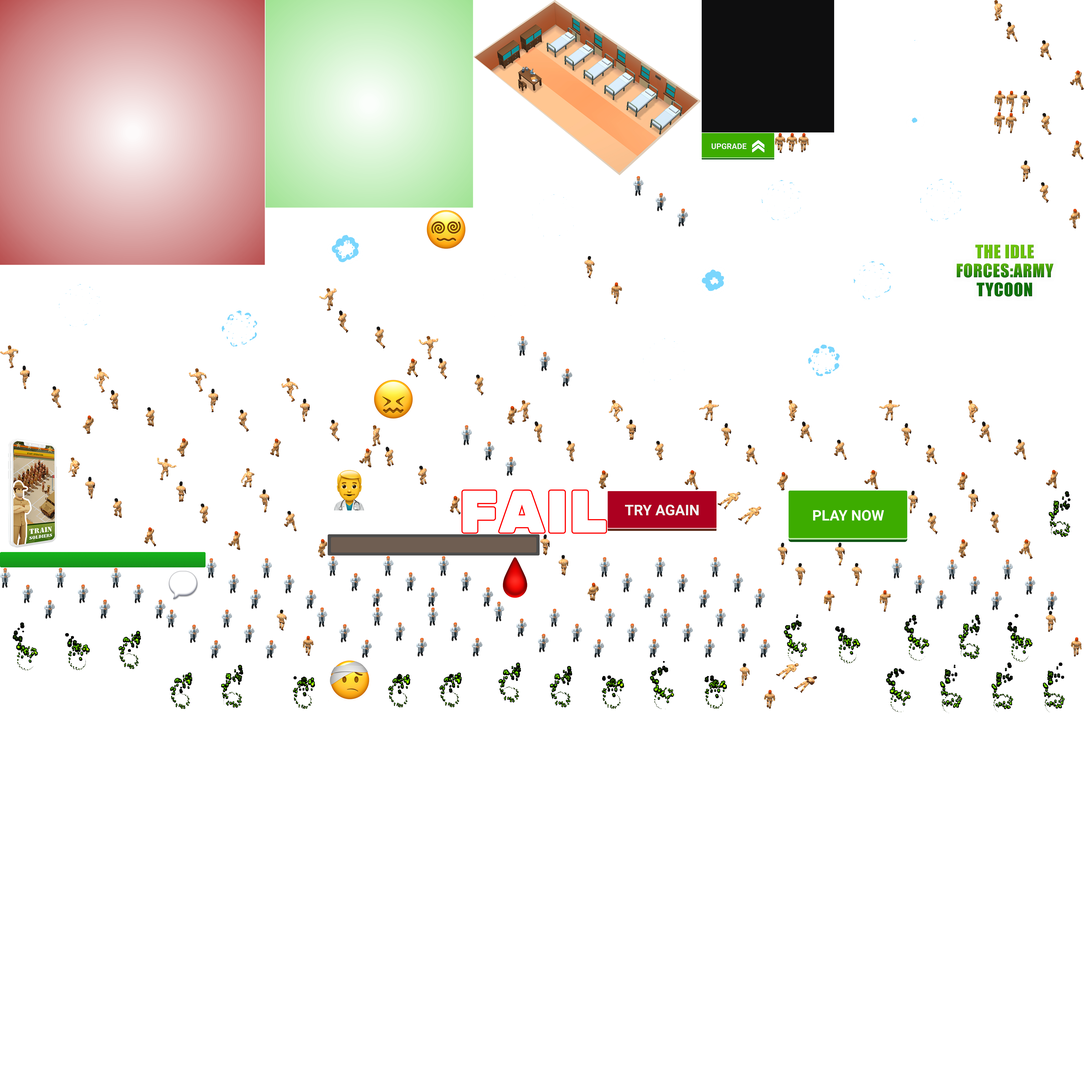
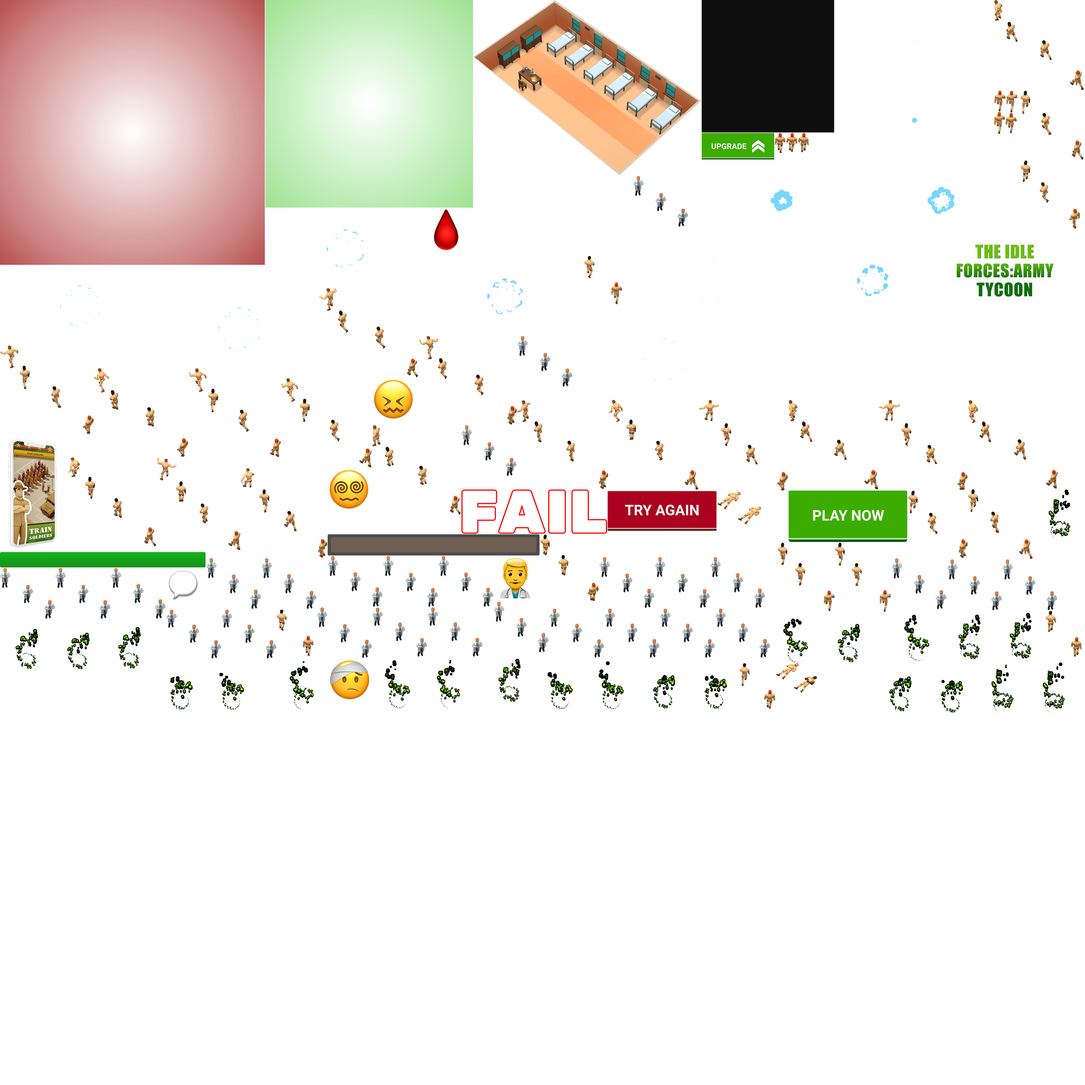
Add files via upload

diff --git a/index.html b/index.html
@@ -19,7 +19,7 @@
 var p; // shortcut to reference prototypes
 var lib={};var ss={};var img={};
 lib.ssMetadata = [
-		{name:"index_atlas_P_", frames: [[0,0,1000,1000],[1742,1848,550,167],[1002,0,784,784],[2294,2006,640,95],[1864,2099,160,160],[2294,1854,411,150],[2649,502,274,100],[627,2144,128,128],[2977,1852,449,194],[3151,0,600,300],[3151,302,600,300],[2390,906,600,300],[1002,786,600,300],[2808,1208,600,300],[602,1088,600,300],[2992,906,600,300],[2649,604,600,300],[3251,604,600,300],[0,1002,600,300],[1788,664,600,300],[2206,1208,600,300],[1604,966,600,300],[3410,1208,600,300],[1405,1427,160,160],[1604,786,160,160],[1237,1767,160,160],[1405,2293,207,186],[1614,2293,207,186],[2282,2297,207,186],[2491,2297,207,186],[2073,2297,207,186],[2700,2297,207,186],[836,2301,207,185],[627,2301,207,185],[1196,2293,207,191],[2472,2103,207,192],[2390,664,207,192],[1237,2099,207,192],[1953,1268,207,192],[1655,2099,207,192],[778,2107,207,192],[2263,2103,207,192],[1446,2099,207,192],[2681,2103,207,192],[1742,1605,207,192],[209,2144,207,192],[418,2144,207,192],[987,2107,207,192],[3366,2108,207,192],[0,2144,207,192],[3575,2112,207,192],[3784,2112,207,192],[1864,2271,207,192],[1237,2017,800,80],[2909,2309,192,192],[0,2338,192,192],[3754,2306,192,192],[3103,2312,192,192],[194,2338,192,192],[2405,2485,192,192],[2599,2485,192,192],[2211,2485,192,192],[1045,2486,192,192],[1405,2481,192,192],[1599,2481,192,192],[3297,2496,192,192],[582,2488,192,192],[388,2338,192,192],[1823,2465,192,192],[2017,2485,192,192],[776,2488,192,192],[3366,2302,192,192],[3560,2306,192,192],[3901,1847,192,192],[3685,2500,192,192],[3879,2500,192,192],[3491,2500,192,192],[1239,2486,160,160],[3594,906,400,231],[0,2084,776,58],[2929,2503,157,118],[2707,1854,169,130],[1204,1088,374,337],[1580,1268,371,335],[356,1390,354,334],[3655,1510,339,335],[2977,1510,339,338],[3753,0,340,340],[1405,1605,335,338],[1953,1510,343,336],[0,1304,354,334],[712,1390,348,335],[1062,1427,341,338],[2298,1510,339,339],[258,1726,332,338],[910,1767,325,338],[2639,1510,336,342],[3318,1510,335,340],[592,1727,316,350],[3655,1847,244,263],[3853,342,237,261],[3428,1852,225,254],[3853,605,225,258],[2039,2017,222,252],[2936,2048,215,259],[3153,2048,211,262],[2206,966,143,183],[1045,2301,140,176],[3948,2306,136,173],[2793,2503,134,173],[3753,342,44,79],[3799,342,42,82],[3753,423,41,83],[2925,502,41,76],[3013,502,41,73],[2968,502,43,71],[3796,426,43,77],[2649,0,500,500],[0,1640,256,442],[1788,0,859,662]]},
+		{name:"index_atlas_P_", frames: [[0,0,1000,1000],[1742,1848,550,167],[1002,0,784,784],[2294,2006,640,95],[1604,786,160,160],[2294,1854,411,150],[2649,502,274,100],[627,2144,128,128],[2977,1852,449,194],[3151,0,600,300],[3151,302,600,300],[2649,604,600,300],[3251,604,600,300],[2992,906,600,300],[1604,966,600,300],[1002,786,600,300],[0,1002,600,300],[602,1088,600,300],[2206,1208,600,300],[1788,664,600,300],[2390,906,600,300],[2808,1208,600,300],[3410,1208,600,300],[1405,1427,160,160],[1237,1767,160,160],[1864,2099,160,160],[1614,2293,207,186],[2700,2297,207,186],[2282,2297,207,186],[1405,2293,207,186],[2491,2297,207,186],[2073,2297,207,186],[836,2301,207,185],[627,2301,207,185],[1196,2293,207,191],[1953,1268,207,192],[1742,1605,207,192],[2390,664,207,192],[987,2107,207,192],[418,2144,207,192],[2681,2103,207,192],[1237,2099,207,192],[1864,2271,207,192],[778,2107,207,192],[1655,2099,207,192],[2263,2103,207,192],[3366,2108,207,192],[3784,2112,207,192],[3575,2112,207,192],[1446,2099,207,192],[2472,2103,207,192],[0,2144,207,192],[209,2144,207,192],[1237,2017,800,80],[1599,2481,192,192],[1405,2481,192,192],[2211,2485,192,192],[2017,2485,192,192],[776,2488,192,192],[1045,2486,192,192],[582,2488,192,192],[2599,2485,192,192],[3491,2500,192,192],[2405,2485,192,192],[3297,2496,192,192],[2909,2309,192,192],[194,2338,192,192],[3103,2312,192,192],[0,2338,192,192],[388,2338,192,192],[1823,2465,192,192],[3366,2302,192,192],[3560,2306,192,192],[3754,2306,192,192],[3901,1847,192,192],[3879,2500,192,192],[3685,2500,192,192],[1239,2486,160,160],[3594,906,400,231],[0,2084,776,58],[2929,2503,157,118],[2707,1854,169,130],[1204,1088,374,337],[1580,1268,371,335],[356,1390,354,334],[3655,1510,339,335],[2977,1510,339,338],[3753,0,340,340],[1405,1605,335,338],[1953,1510,343,336],[0,1304,354,334],[712,1390,348,335],[1062,1427,341,338],[2298,1510,339,339],[258,1726,332,338],[910,1767,325,338],[2639,1510,336,342],[3318,1510,335,340],[592,1727,316,350],[3655,1847,244,263],[3853,342,237,261],[3428,1852,225,254],[3853,605,225,258],[2039,2017,222,252],[2936,2048,215,259],[3153,2048,211,262],[2206,966,143,183],[1045,2301,140,176],[3948,2306,136,173],[2793,2503,134,173],[3753,342,44,79],[3799,342,42,82],[3753,423,41,83],[2925,502,41,76],[3013,502,41,73],[2968,502,43,71],[3796,426,43,77],[2649,0,500,500],[0,1640,256,442],[1788,0,859,662]]},
 		{name:"index_atlas_NP_", frames: [[0,0,2000,2000],[1082,2002,1024,1024],[0,2002,1080,1080]]}
 ];
 // symbols:
@@ -1185,6 +1185,7 @@ p.nominalBounds = new cjs.Rectangle(-230.3,-116.1,461.1,232.3);
 	}
 	this.frame_74 = function() {
 		window.dispatchEvent(new Event('showBase'));
+		window.dispatchEvent(new Event('makeClickable'));
 	}
 	this.frame_89 = function() {
 		this.stop();
@@ -1281,50 +1282,67 @@ p.nominalBounds = new cjs.Rectangle(-230.3,-116.1,461.1,232.3);
 		this.stop();
 		window.dispatchEvent(new Event('showUi'));
 	}
+	this.frame_94 = function() {
+		window.dispatchEvent(new Event('upgrade'));
+	}
+	this.frame_104 = function() {
+		this.stop();
+		window.dispatchEvent(new Event('makeClickable'));
+	}
+	this.frame_112 = function() {
+		window.dispatchEvent(new Event('upgrade'));
+	}
+	this.frame_123 = function() {
+		this.stop();
+		window.dispatchEvent(new Event('makeClickable'));
+	}
 	this.frame_135 = function() {
+		window.dispatchEvent(new Event('upgrade'));
+	}
+	this.frame_170 = function() {
 		window.dispatchEvent(new Event('onHeal'));
 	}
-	this.frame_149 = function() {
+	this.frame_184 = function() {
 		this.stop();
 	}
 	// actions tween:
-	this.timeline.addTween(cjs.Tween.get(this).wait(70).call(this.frame_70).wait(65).call(this.frame_135).wait(14).call(this.frame_149).wait(1));
+	this.timeline.addTween(cjs.Tween.get(this).wait(70).call(this.frame_70).wait(24).call(this.frame_94).wait(10).call(this.frame_104).wait(8).call(this.frame_112).wait(11).call(this.frame_123).wait(12).call(this.frame_135).wait(35).call(this.frame_170).wait(14).call(this.frame_184).wait(1));
 	// effect
 	this.instance = new lib.appear_FX("synched",0);
 	this.instance.parent = this;
 	this.instance.setTransform(255.4,98.2,1.7661,1.7661,0,0,0,0.1,0.1);
 	this.instance._off = true;
-	this.timeline.addTween(cjs.Tween.get(this.instance).wait(98).to({_off:false},0).to({_off:true},14).wait(38));
+	this.timeline.addTween(cjs.Tween.get(this.instance).wait(133).to({_off:false},0).to({_off:true},14).wait(38));
 	// effect
 	this.instance_1 = new lib.appear_FX("synched",0);
 	this.instance_1.parent = this;
 	this.instance_1.setTransform(76.85,-26.9,1.7705,1.7705,0,0,0,0.1,0);
 	this.instance_1._off = true;
-	this.timeline.addTween(cjs.Tween.get(this.instance_1).wait(96).to({_off:false},0).to({_off:true},14).wait(40));
+	this.timeline.addTween(cjs.Tween.get(this.instance_1).wait(131).to({_off:false},0).to({_off:true},14).wait(40));
 	// effect
 	this.instance_2 = new lib.appear_FX("synched",0);
 	this.instance_2.parent = this;
 	this.instance_2.setTransform(-61.8,-137.9,1.6451,1.6451,0,0,0,0,-0.1);
 	this.instance_2._off = true;
-	this.timeline.addTween(cjs.Tween.get(this.instance_2).wait(94).to({_off:false},0).to({_off:true},14).wait(42));
+	this.timeline.addTween(cjs.Tween.get(this.instance_2).wait(129).to({_off:false},0).to({_off:true},14).wait(42));
 	// effect
 	this.instance_3 = new lib.appear_FX("synched",0);
 	this.instance_3.parent = this;
 	this.instance_3.setTransform(-210,-177.2);
 	this.instance_3._off = true;
-	this.timeline.addTween(cjs.Tween.get(this.instance_3).wait(91).to({_off:false},0).to({_off:true},14).wait(45));
+	this.timeline.addTween(cjs.Tween.get(this.instance_3).wait(109).to({_off:false},0).to({_off:true},14).wait(62));
 	// effect
 	this.instance_4 = new lib.appear_FX("synched",0);
 	this.instance_4.parent = this;
 	this.instance_4.setTransform(-297,-118.3);
 	this.instance_4._off = true;
-	this.timeline.addTween(cjs.Tween.get(this.instance_4).wait(90).to({_off:false},0).to({_off:true},14).wait(46));
+	this.timeline.addTween(cjs.Tween.get(this.instance_4).wait(108).to({_off:false},0).to({_off:true},14).wait(63));
 	// effect
 	this.instance_5 = new lib.appear_FX("synched",0);
 	this.instance_5.parent = this;
 	this.instance_5.setTransform(-229.8,-18.8);
 	this.instance_5._off = true;
-	this.timeline.addTween(cjs.Tween.get(this.instance_5).wait(88).to({_off:false},0).to({_off:true},14).wait(48));
+	this.timeline.addTween(cjs.Tween.get(this.instance_5).wait(90).to({_off:false},0).to({_off:true},14).wait(81));
 	// cross
 	this.instance_6 = new lib.cross();
 	this.instance_6.parent = this;
@@ -1332,7 +1350,7 @@ p.nominalBounds = new cjs.Rectangle(-230.3,-116.1,461.1,232.3);
 	this.instance_6.alpha = 0.0703;
 	this.instance_6.compositeOperation = "lighter";
 	this.instance_6._off = true;
-	this.timeline.addTween(cjs.Tween.get(this.instance_6).wait(128).to({_off:false},0).to({alpha:1},11,cjs.Ease.quadOut).wait(11));
+	this.timeline.addTween(cjs.Tween.get(this.instance_6).wait(163).to({_off:false},0).to({alpha:1},11,cjs.Ease.quadOut).wait(11));
 	// cross
 	this.instance_7 = new lib.cross();
 	this.instance_7.parent = this;
@@ -1340,7 +1358,7 @@ p.nominalBounds = new cjs.Rectangle(-230.3,-116.1,461.1,232.3);
 	this.instance_7.alpha = 0.0703;
 	this.instance_7.compositeOperation = "lighter";
 	this.instance_7._off = true;
-	this.timeline.addTween(cjs.Tween.get(this.instance_7).wait(130).to({_off:false},0).to({alpha:1},11,cjs.Ease.quadOut).wait(9));
+	this.timeline.addTween(cjs.Tween.get(this.instance_7).wait(165).to({_off:false},0).to({alpha:1},11,cjs.Ease.quadOut).wait(9));
 	// cross
 	this.instance_8 = new lib.cross();
 	this.instance_8.parent = this;
@@ -1348,7 +1366,7 @@ p.nominalBounds = new cjs.Rectangle(-230.3,-116.1,461.1,232.3);
 	this.instance_8.alpha = 0.0703;
 	this.instance_8.compositeOperation = "lighter";
 	this.instance_8._off = true;
-	this.timeline.addTween(cjs.Tween.get(this.instance_8).wait(132).to({_off:false},0).to({alpha:1},11,cjs.Ease.quadOut).wait(7));
+	this.timeline.addTween(cjs.Tween.get(this.instance_8).wait(167).to({_off:false},0).to({alpha:1},11,cjs.Ease.quadOut).wait(7));
 	// cross
 	this.instance_9 = new lib.cross();
 	this.instance_9.parent = this;
@@ -1356,7 +1374,7 @@ p.nominalBounds = new cjs.Rectangle(-230.3,-116.1,461.1,232.3);
 	this.instance_9.alpha = 0.0703;
 	this.instance_9.compositeOperation = "lighter";
 	this.instance_9._off = true;
-	this.timeline.addTween(cjs.Tween.get(this.instance_9).wait(134).to({_off:false},0).to({alpha:1},11,cjs.Ease.quadOut).wait(5));
+	this.timeline.addTween(cjs.Tween.get(this.instance_9).wait(169).to({_off:false},0).to({alpha:1},11,cjs.Ease.quadOut).wait(5));
 	// laying_mask (mask)
 	var mask = new cjs.Shape();
 	mask._off = true;
@@ -1364,7 +1382,7 @@ p.nominalBounds = new cjs.Rectangle(-230.3,-116.1,461.1,232.3);
[3 lines of base64/hex data omitted]
-	this.timeline.addTween(cjs.Tween.get(mask).to({graphics:null,x:0,y:0}).wait(34).to({graphics:mask_graphics_34,x:-96.8823,y:-161.6829}).wait(14).to({graphics:mask_graphics_48,x:-62.0823,y:-136.7329}).wait(8).to({graphics:mask_graphics_56,x:-23.9823,y:-110.9579}).wait(14).to({graphics:mask_graphics_70,x:14.9427,y:-82.4579}).wait(80));
+	this.timeline.addTween(cjs.Tween.get(mask).to({graphics:null,x:0,y:0}).wait(34).to({graphics:mask_graphics_34,x:-96.8823,y:-161.6829}).wait(14).to({graphics:mask_graphics_48,x:-62.0823,y:-136.7329}).wait(8).to({graphics:mask_graphics_56,x:-23.9823,y:-110.9579}).wait(14).to({graphics:mask_graphics_70,x:14.9427,y:-82.4579}).wait(115));
 	// soldiers_laying
 	this.instance_10 = new lib.sol_lying("synched",0);
 	this.instance_10.parent = this;
@@ -1374,13 +1392,13 @@ p.nominalBounds = new cjs.Rectangle(-230.3,-116.1,461.1,232.3);
 	for(var shapedInstanceItr = 0; shapedInstanceItr < maskedShapeInstanceList.length; shapedInstanceItr++) {
 		maskedShapeInstanceList[shapedInstanceItr].mask = mask;
 	}
-	this.timeline.addTween(cjs.Tween.get(this.instance_10).wait(34).to({_off:false},0).wait(116));
+	this.timeline.addTween(cjs.Tween.get(this.instance_10).wait(34).to({_off:false},0).wait(151));
 	// docmask (mask)
 	var mask_1 = new cjs.Shape();
 	mask_1._off = true;
[2 lines of base64/hex data omitted]
-	this.timeline.addTween(cjs.Tween.get(mask_1).to({graphics:null,x:0,y:0}).wait(85).to({graphics:mask_1_graphics_85,x:125.075,y:-198.625}).wait(13).to({graphics:mask_1_graphics_98,x:2.9,y:-122.35}).wait(52));
[1 lines of base64/hex data omitted]
+	this.timeline.addTween(cjs.Tween.get(mask_1).to({graphics:null,x:0,y:0}).wait(85).to({graphics:mask_1_graphics_85,x:125.075,y:-198.625}).wait(48).to({graphics:mask_1_graphics_133,x:2.9,y:-122.35}).wait(52));
 	// doctors
 	this.instance_11 = new lib.doctors();
 	this.instance_11.parent = this;
@@ -1390,56 +1408,56 @@ p.nominalBounds = new cjs.Rectangle(-230.3,-116.1,461.1,232.3);
 	for(var shapedInstanceItr = 0; shapedInstanceItr < maskedShapeInstanceList.length; shapedInstanceItr++) {
 		maskedShapeInstanceList[shapedInstanceItr].mask = mask_1;
 	}
-	this.timeline.addTween(cjs.Tween.get(this.instance_11).wait(85).to({_off:false},0).wait(65));
+	this.timeline.addTween(cjs.Tween.get(this.instance_11).wait(85).to({_off:false},0).wait(100));
 	// emoji_doctor
 	this.instance_12 = new lib.emoji_doctor();
 	this.instance_12.parent = this;
 	this.instance_12.setTransform(-88.8,-241.2,0.1486,0.1486,0,0,0,-29.2,42.4);
 	this.instance_12._off = true;
-	this.timeline.addTween(cjs.Tween.get(this.instance_12).wait(114).to({_off:false},0).to({regX:-29.4,regY:42.3,scaleX:1,scaleY:1,x:-88.85,y:-241.25},12,cjs.Ease.backOut).wait(24));
+	this.timeline.addTween(cjs.Tween.get(this.instance_12).wait(149).to({_off:false},0).to({regX:-29.4,regY:42.3,scaleX:1,scaleY:1,x:-88.85,y:-241.25},12,cjs.Ease.backOut).wait(24));
 	// emoji_doctor
 	this.instance_13 = new lib.emoji_doctor();
 	this.instance_13.parent = this;
 	this.instance_13.setTransform(-12,-190.55,0.1486,0.1486,0,0,0,-29.2,42.4);
 	this.instance_13._off = true;
-	this.timeline.addTween(cjs.Tween.get(this.instance_13).wait(116).to({_off:false},0).to({regX:-29.4,regY:42.3,scaleX:1,scaleY:1,x:-12.05,y:-190.6},12,cjs.Ease.backOut).wait(22));
+	this.timeline.addTween(cjs.Tween.get(this.instance_13).wait(151).to({_off:false},0).to({regX:-29.4,regY:42.3,scaleX:1,scaleY:1,x:-12.05,y:-190.6},12,cjs.Ease.backOut).wait(22));
 	// emoji_doctor
 	this.instance_14 = new lib.emoji_doctor();
 	this.instance_14.parent = this;
 	this.instance_14.setTransform(68.7,-134.7,0.1796,0.1796,0,0,0,-29.2,42.3);
 	this.instance_14._off = true;
-	this.timeline.addTween(cjs.Tween.get(this.instance_14).wait(118).to({_off:false},0).to({regX:-29.4,scaleX:1,scaleY:1,x:68.65,y:-134.75},12,cjs.Ease.backOut).wait(20));
+	this.timeline.addTween(cjs.Tween.get(this.instance_14).wait(153).to({_off:false},0).to({regX:-29.4,scaleX:1,scaleY:1,x:68.65,y:-134.75},12,cjs.Ease.backOut).wait(20));
 	// emoji_doctor
 	this.instance_15 = new lib.emoji_doctor();
 	this.instance_15.parent = this;
 	this.instance_15.setTransform(150.85,-79.95,0.1443,0.1443,0,0,0,-29.4,42.3);
 	this.instance_15._off = true;
-	this.timeline.addTween(cjs.Tween.get(this.instance_15).wait(120).to({_off:false},0).to({scaleX:1,scaleY:1},12,cjs.Ease.backOut).wait(18));
+	this.timeline.addTween(cjs.Tween.get(this.instance_15).wait(155).to({_off:false},0).to({scaleX:1,scaleY:1},12,cjs.Ease.backOut).wait(18));
 	// emoji_conf
 	this.instance_16 = new lib.emj_conf();
 	this.instance_16.parent = this;
 	this.instance_16.setTransform(298.8,149.45);
-	this.timeline.addTween(cjs.Tween.get(this.instance_16).to({x:202.85,y:37.1},40).to({x:187.6,y:-25.05},16,cjs.Ease.quadInOut).to({x:218.2,y:-78.4},14,cjs.Ease.quadIn).wait(37).to({regX:-29.9,regY:42,x:188.3,y:-36.4},0).to({regX:-30.1,regY:41.9,scaleX:0.1313,scaleY:0.1313,x:188.25},11,cjs.Ease.backIn).to({_off:true},1).wait(31));
+	this.timeline.addTween(cjs.Tween.get(this.instance_16).to({x:202.85,y:37.1},40).to({x:187.6,y:-25.05},16,cjs.Ease.quadInOut).to({x:218.2,y:-78.4},14,cjs.Ease.quadIn).wait(72).to({regX:-29.9,regY:42,x:188.3,y:-36.4},0).to({regX:-30.1,regY:41.9,scaleX:0.1313,scaleY:0.1313,x:188.25},11,cjs.Ease.backIn).to({_off:true},1).wait(31));
 	// emoji_dizzed
 	this.instance_17 = new lib.emj_dizzed();
 	this.instance_17.parent = this;
 	this.instance_17.setTransform(169.3,26);
-	this.timeline.addTween(cjs.Tween.get(this.instance_17).to({x:83.6,y:-58.1},34).to({x:94.2,y:-97.15},15).to({x:134.85,y:-136.8},7,cjs.Ease.quadIn).wait(48).to({regX:-31.6,regY:43.6,x:103.25,y:-93.2},0).to({scaleX:0.1378,scaleY:0.1378},11,cjs.Ease.backIn).to({_off:true},1).wait(34));
+	this.timeline.addTween(cjs.Tween.get(this.instance_17).to({x:83.6,y:-58.1},34).to({x:94.2,y:-97.15},15).to({x:134.85,y:-136.8},7,cjs.Ease.quadIn).wait(83).to({regX:-31.6,regY:43.6,x:103.25,y:-93.2},0).to({scaleX:0.1378,scaleY:0.1378},11,cjs.Ease.backIn).to({_off:true},1).wait(34));
 	// emoji_blood
 	this.instance_18 = new lib.emj_blood();
 	this.instance_18.parent = this;
 	this.instance_18.setTransform(19.4,-38.2);
-	this.timeline.addTween(cjs.Tween.get(this.instance_18).wait(1).to({x:19.2631,y:-38.7287},0).wait(1).to({x:19.0452,y:-39.5703},0).wait(1).to({x:18.7418,y:-40.7424},0).wait(1).to({x:18.3482,y:-42.2625},0).wait(1).to({x:17.8602,y:-44.1475},0).wait(1).to({x:17.2735,y:-46.4134},0).wait(1).to({x:16.5847,y:-49.0739},0).wait(1).to({x:15.7911,y:-52.1393},0).wait(1).to({x:14.8912,y:-55.6149},0).wait(1).to({x:13.8855,y:-59.4994},0).wait(1).to({x:12.7766,y:-63.7825},0).wait(1).to({x:11.5699,y:-68.443},0).wait(1).to({x:10.2743,y:-73.4472},0).wait(1).to({x:8.9021,y:-78.7472},0).wait(1).to({x:7.4692,y:-84.2817},0).wait(1).to({x:5.9947,y:-89.9769},0).wait(1).to({x:4.5,y:-95.75},0).wait(1).to({x:4.6928,y:-100.0111},0).wait(1).to({x:4.8823,y:-104.2013},0).wait(1).to({x:5.066,y:-108.2612},0).wait(1).to({x:5.2414,y:-112.1386},0).wait(1).to({x:5.4066,y:-115.7908},0).wait(1).to({x:5.5602,y:-119.1853},0).wait(1).to({x:5.7011,y:-122.2998},0).wait(1).to({x:5.8287,y:-125.1207},0).wait(1).to({x:5.9427,y:-127.6422},0).wait(1).to({x:6.0433,y:-129.8646},0).wait(1).to({x:6.1305,y:-131.7927},0).wait(1).to({x:6.2048,y:-133.4346},0).wait(1).to({x:6.2666,y:-134.8008},0).wait(1).to({x:6.3164,y:-135.9028},0).wait(1).to({x:6.3549,y:-136.7532},0).wait(1).to({x:6.3826,y:-137.3647},0).wait(1).to({x:6.4,y:-137.75},0).to({x:16.6,y:-159.25},10,cjs.Ease.sineInOut).to({x:54.95,y:-185.25},4,cjs.Ease.quartIn).wait(53).to({regX:-27.7,regY:41,x:27.25,y:-144.25},0).to({regY:41.1,scaleX:0.1047,scaleY:0.1047,x:27.2,y:-144.2},11,cjs.Ease.backIn).to({_off:true},1).wait(37));
+	this.timeline.addTween(cjs.Tween.get(this.instance_18).wait(1).to({x:19.2631,y:-38.7287},0).wait(1).to({x:19.0452,y:-39.5703},0).wait(1).to({x:18.7418,y:-40.7424},0).wait(1).to({x:18.3482,y:-42.2625},0).wait(1).to({x:17.8602,y:-44.1475},0).wait(1).to({x:17.2735,y:-46.4134},0).wait(1).to({x:16.5847,y:-49.0739},0).wait(1).to({x:15.7911,y:-52.1393},0).wait(1).to({x:14.8912,y:-55.6149},0).wait(1).to({x:13.8855,y:-59.4994},0).wait(1).to({x:12.7766,y:-63.7825},0).wait(1).to({x:11.5699,y:-68.443},0).wait(1).to({x:10.2743,y:-73.4472},0).wait(1).to({x:8.9021,y:-78.7472},0).wait(1).to({x:7.4692,y:-84.2817},0).wait(1).to({x:5.9947,y:-89.9769},0).wait(1).to({x:4.5,y:-95.75},0).wait(1).to({x:4.6928,y:-100.0111},0).wait(1).to({x:4.8823,y:-104.2013},0).wait(1).to({x:5.066,y:-108.2612},0).wait(1).to({x:5.2414,y:-112.1386},0).wait(1).to({x:5.4066,y:-115.7908},0).wait(1).to({x:5.5602,y:-119.1853},0).wait(1).to({x:5.7011,y:-122.2998},0).wait(1).to({x:5.8287,y:-125.1207},0).wait(1).to({x:5.9427,y:-127.6422},0).wait(1).to({x:6.0433,y:-129.8646},0).wait(1).to({x:6.1305,y:-131.7927},0).wait(1).to({x:6.2048,y:-133.4346},0).wait(1).to({x:6.2666,y:-134.8008},0).wait(1).to({x:6.3164,y:-135.9028},0).wait(1).to({x:6.3549,y:-136.7532},0).wait(1).to({x:6.3826,y:-137.3647},0).wait(1).to({x:6.4,y:-137.75},0).to({x:16.6,y:-159.25},10,cjs.Ease.sineInOut).to({x:54.95,y:-185.25},4,cjs.Ease.quartIn).wait(88).to({regX:-27.7,regY:41,x:27.25,y:-144.25},0).to({regY:41.1,scaleX:0.1047,scaleY:0.1047,x:27.2,y:-144.2},11,cjs.Ease.backIn).to({_off:true},1).wait(37));
 	// emoji_inj
 	this.instance_19 = new lib.emoji_injured();
 	this.instance_19.parent = this;
 	this.instance_19.setTransform(-24.3,-119.9);
-	this.timeline.addTween(cjs.Tween.get(this.instance_19).wait(1).to({regX:0.2,regY:0.2,x:-24.35,y:-120.1},0).wait(1).to({x:-24.75,y:-120.8},0).wait(1).to({x:-25.4,y:-121.8},0).wait(1).to({x:-26.2,y:-123.15},0).wait(1).to({x:-27.25,y:-124.8},0).wait(1).to({x:-28.5,y:-126.85},0).wait(1).to({x:-29.95,y:-129.25},0).wait(1).to({x:-31.65,y:-132},0).wait(1).to({x:-33.55,y:-135.1},0).wait(1).to({x:-35.7,y:-138.55},0).wait(1).to({x:-38,y:-142.35},0).wait(1).to({x:-40.5,y:-146.4},0).wait(1).to({x:-43.1,y:-150.65},0).wait(1).to({x:-45.8,y:-155.05},0).wait(1).to({x:-48.55,y:-159.5},0).wait(1).to({x:-51.2,y:-163.85},0).wait(1).to({x:-53.8,y:-168.1},0).wait(1).to({x:-56.3,y:-172.1},0).wait(1).to({x:-58.6,y:-175.85},0).wait(1).to({x:-60.7,y:-179.25},0).wait(1).to({x:-62.55,y:-182.3},0).wait(1).to({regX:0,regY:0,x:-64.45,y:-185.25},0).wait(1).to({regX:0.2,regY:0.2,x:-61.95,y:-191.15},0).wait(1).to({x:-60.05,y:-196.35},0).wait(1).to({x:-58.45,y:-200.65},0).wait(1).to({x:-57.15,y:-204.05},0).wait(1).to({x:-56.2,y:-206.65},0).wait(1).to({x:-55.55,y:-208.5},0).wait(1).to({regX:0,regY:0,x:-55.35,y:-209.8},0).to({x:-19,y:-240.35},5,cjs.Ease.cubicIn).wait(64).to({regX:-30,regY:40.9,x:-49,y:-199.45},0).to({regX:-29.9,scaleX:0.1136,scaleY:0.1136},11,cjs.Ease.backIn).to({_off:true},1).wait(40));
+	this.timeline.addTween(cjs.Tween.get(this.instance_19).wait(1).to({regX:0.2,regY:0.2,x:-24.35,y:-120.1},0).wait(1).to({x:-24.75,y:-120.8},0).wait(1).to({x:-25.4,y:-121.8},0).wait(1).to({x:-26.2,y:-123.15},0).wait(1).to({x:-27.25,y:-124.8},0).wait(1).to({x:-28.5,y:-126.85},0).wait(1).to({x:-29.95,y:-129.25},0).wait(1).to({x:-31.65,y:-132},0).wait(1).to({x:-33.55,y:-135.1},0).wait(1).to({x:-35.7,y:-138.55},0).wait(1).to({x:-38,y:-142.35},0).wait(1).to({x:-40.5,y:-146.4},0).wait(1).to({x:-43.1,y:-150.65},0).wait(1).to({x:-45.8,y:-155.05},0).wait(1).to({x:-48.55,y:-159.5},0).wait(1).to({x:-51.2,y:-163.85},0).wait(1).to({x:-53.8,y:-168.1},0).wait(1).to({x:-56.3,y:-172.1},0).wait(1).to({x:-58.6,y:-175.85},0).wait(1).to({x:-60.7,y:-179.25},0).wait(1).to({x:-62.55,y:-182.3},0).wait(1).to({regX:0,regY:0,x:-64.45,y:-185.25},0).wait(1).to({regX:0.2,regY:0.2,x:-61.95,y:-191.15},0).wait(1).to({x:-60.05,y:-196.35},0).wait(1).to({x:-58.45,y:-200.65},0).wait(1).to({x:-57.15,y:-204.05},0).wait(1).to({x:-56.2,y:-206.65},0).wait(1).to({x:-55.55,y:-208.5},0).wait(1).to({regX:0,regY:0,x:-55.35,y:-209.8},0).to({x:-19,y:-240.35},5,cjs.Ease.cubicIn).wait(99).to({regX:-30,regY:40.9,x:-49,y:-199.45},0).to({regX:-29.9,scaleX:0.1136,scaleY:0.1136},11,cjs.Ease.backIn).to({_off:true},1).wait(40));
 	// walk_mask (mask)
 	var mask_2 = new cjs.Shape();
 	mask_2._off = true;
 	var mask_2_graphics_0 = new cjs.Graphics().p("EhCzgRtMAvgghiMBWHA7WMgvQArJg");
-	this.timeline.addTween(cjs.Tween.get(mask_2).to({graphics:mask_2_graphics_0,x:-0.25,y:19.55}).wait(70).to({graphics:null,x:0,y:0}).wait(80));
+	this.timeline.addTween(cjs.Tween.get(mask_2).to({graphics:mask_2_graphics_0,x:-0.25,y:19.55}).wait(70).to({graphics:null,x:0,y:0}).wait(115));
 	// soldiers
 	this.instance_20 = new lib.soldiers_walkin("synched",0);
 	this.instance_20.parent = this;
@@ -1447,18 +1465,18 @@ p.nominalBounds = new cjs.Rectangle(-230.3,-116.1,461.1,232.3);
 	for(var shapedInstanceItr = 0; shapedInstanceItr < maskedShapeInstanceList.length; shapedInstanceItr++) {
 		maskedShapeInstanceList[shapedInstanceItr].mask = mask_2;
 	}
-	this.timeline.addTween(cjs.Tween.get(this.instance_20).to({_off:true},70).wait(80));
+	this.timeline.addTween(cjs.Tween.get(this.instance_20).to({_off:true},70).wait(115));
 	// up_mask (mask)
 	var mask_3 = new cjs.Shape();
 	mask_3._off = true;
 	var mask_3_graphics_84 = new cjs.Graphics().p("AuRglICWkiIL7m5IOSMQIsbLxg");
-	var mask_3_graphics_91 = new cjs.Graphics().p("AuRglICWkiIL7m5IOTMQIsdLxg");
-	var mask_3_graphics_93 = new cjs.Graphics().p("AoqH6ICKkKIAugsILamkIOSMQIscLxgAx+BxIh7tpIQvooIGPP8IxvKNg");
[4 lines of base64/hex data omitted]
-	this.timeline.addTween(cjs.Tween.get(mask_3).to({graphics:null,x:0,y:0}).wait(84).to({graphics:mask_3_graphics_84,x:-314.1,y:157.625}).wait(7).to({graphics:mask_3_graphics_91,x:-219.9,y:-8.925}).wait(2).to({graphics:mask_3_graphics_93,x:-255.85,y:-63.325}).wait(1).to({graphics:mask_3_graphics_94,x:-255.85,y:-95.675}).wait(3).to({graphics:mask_3_graphics_97,x:-168.475,y:-95.675}).wait(2).to({graphics:mask_3_graphics_99,x:-89.45,y:-89.125}).wait(2).to({graphics:mask_3_graphics_101,x:-2.325,y:-24.425}).wait(49));
+	var mask_3_graphics_93 = new cjs.Graphics().p("AuRglICWkiIL7m5IOTMQIsdLxg");
+	var mask_3_graphics_111 = new cjs.Graphics().p("AoqH6ICKkKIAugsILamkIOSMQIscLxgAx+BxIh7tpIQvooIGPP8IxvKNg");
[4 lines of base64/hex data omitted]
+	this.timeline.addTween(cjs.Tween.get(mask_3).to({graphics:null,x:0,y:0}).wait(84).to({graphics:mask_3_graphics_84,x:-314.1,y:157.625}).wait(9).to({graphics:mask_3_graphics_93,x:-219.9,y:-8.925}).wait(18).to({graphics:mask_3_graphics_111,x:-255.85,y:-63.325}).wait(1).to({graphics:mask_3_graphics_112,x:-255.85,y:-95.675}).wait(20).to({graphics:mask_3_graphics_132,x:-168.475,y:-95.675}).wait(2).to({graphics:mask_3_graphics_134,x:-89.45,y:-89.125}).wait(2).to({graphics:mask_3_graphics_136,x:-2.325,y:-24.425}).wait(49));
 	// upg
 	this.instance_21 = new lib.upgraded();
 	this.instance_21.parent = this;
@@ -1468,12 +1486,12 @@ p.nominalBounds = new cjs.Rectangle(-230.3,-116.1,461.1,232.3);
 	for(var shapedInstanceItr = 0; shapedInstanceItr < maskedShapeInstanceList.length; shapedInstanceItr++) {
 		maskedShapeInstanceList[shapedInstanceItr].mask = mask_3;
 	}
-	this.timeline.addTween(cjs.Tween.get(this.instance_21).wait(84).to({_off:false},0).wait(66));
+	this.timeline.addTween(cjs.Tween.get(this.instance_21).wait(84).to({_off:false},0).wait(101));
 	// bg
 	this.instance_22 = new lib.background_00000();
 	this.instance_22.parent = this;
 	this.instance_22.setTransform(-510,-510,0.51,0.51);
-	this.timeline.addTween(cjs.Tween.get(this.instance_22).wait(150));
+	this.timeline.addTween(cjs.Tween.get(this.instance_22).wait(185));
 }).prototype = p = new cjs.MovieClip();
 p.nominalBounds = new cjs.Rectangle(-597,-510,1382.1,1020);
 (lib.ui = function(mode,startPosition,loop) {
@@ -1714,7 +1732,7 @@ p.nominalBounds = new cjs.Rectangle(-2048,-2048,4096,4096);
 		var upgradeSFX = new Audio('upgrade.mp3');
 		var successSFX = new Audio('success.mp3');
 		musicBG.loop = true;
-		window.addEventListener('poofSfx', function () {
+		window.addEventListener('upgrade', function () {
 			upgradeSFX.play();
 		});
 		window.addEventListener('swooosh', function () {
@@ -1739,13 +1757,18 @@ p.nominalBounds = new cjs.Rectangle(-2048,-2048,4096,4096);
 		healthbar.gotoAndStop(0);
 		button.clickable = false;
 		var upgraded = false;
+		var counter = 0;
+		window.addEventListener('makeClickable', function () {
+			if (counter == 0) {
+				button.gotoAndPlay(1);
+			}
+			button.clickable = true;
+		});
 		window.addEventListener('showUi', function () {
 			musicBG.play();
 			text.gotoAndPlay(1);
-			button.gotoAndPlay(1);
 			main.ui.gotoAndPlay(1);
 			healthbar.gotoAndPlay(1);
-			button.clickable = true;
 		});
 		window.addEventListener('hideUI', function () {
 			main.ui.gotoAndPlay(15);
@@ -1753,6 +1776,7 @@ p.nominalBounds = new cjs.Rectangle(-2048,-2048,4096,4096);
 		});
 		window.addEventListener('onHeal', function () {
 			healthbar.gotoAndPlay(300);
+			upgraded = true;
 		});
 		window.addEventListener('fail', function () {
 			if (!upgraded) {
@@ -1762,11 +1786,22 @@ p.nominalBounds = new cjs.Rectangle(-2048,-2048,4096,4096);
 		button.addEventListener('click', function () {
 			if (button.clickable) {
 				btnSFX.play();
-				scene.gotoAndPlay(75);
-				text.visible = false;
-				button.clickable = false;
-				button.gotoAndPlay(18);
-				upgraded = true;
+				if (counter == 2) {
+					scene.gotoAndPlay(125);
+					counter++;
+					button.clickable = false;
+					button.gotoAndPlay(18);
+				}
+				if (counter == 1) {
+					scene.gotoAndPlay(105);
+					counter++;
+					button.clickable = false;
+				}
+				if (counter == 0) {
+					scene.gotoAndPlay(85);
+					counter++;
+					button.clickable = false;
+				}
 			}
 		});
 		tryBtn.addEventListener('click', callToAction);
@@ -1834,8 +1869,8 @@ lib.properties = {
 	color: "#FFFFFF",
 	opacity: 1.00,
 	manifest: [
-		{src:"index_atlas_P_.png?1678692662069", id:"index_atlas_P_"},
-		{src:"index_atlas_NP_.jpg?1678692662069", id:"index_atlas_NP_"}
+		{src:"index_atlas_P_.png?1678706457405", id:"index_atlas_P_"},
+		{src:"index_atlas_NP_.jpg?1678706457405", id:"index_atlas_NP_"}
 	],
 	preloads: []
 };
